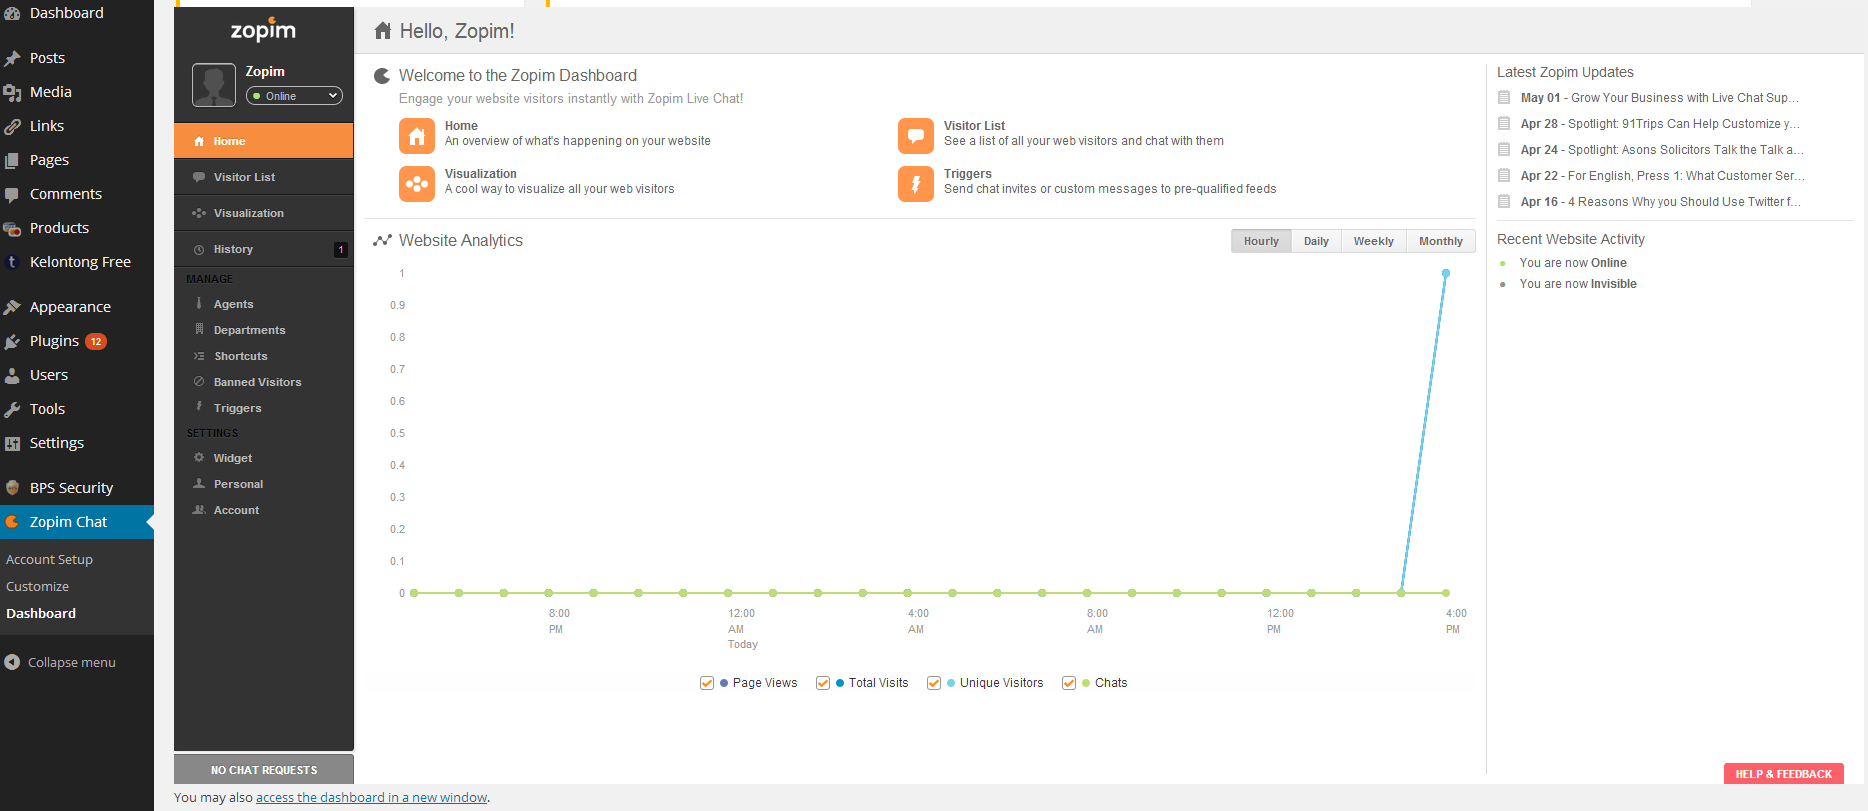
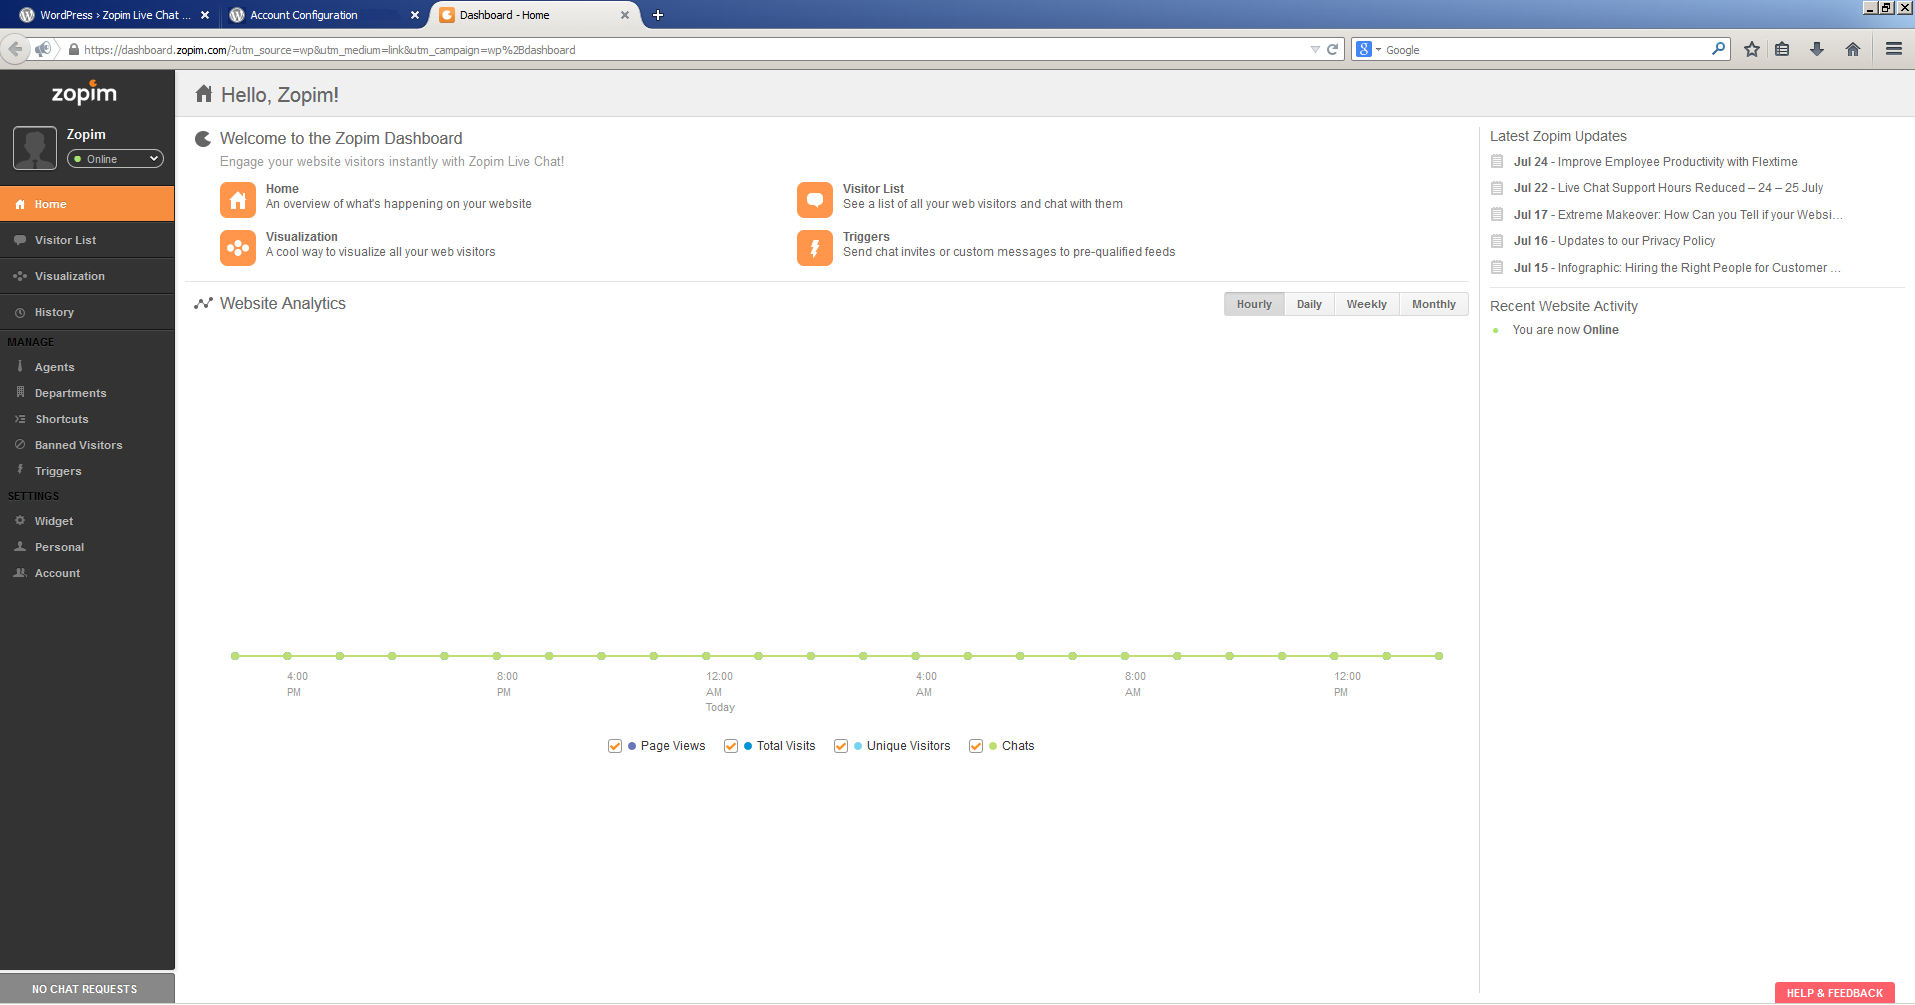
Version 1.3.0 - Remove iframe and submenu pages
git-svn-id: https://plugins.svn.wordpress.org/zopim-live-chat/trunk@954650 b8457f37-d9ea-0310-8a92-e5e31aec5664

diff --git a/zopim.php b/zopim.php
@@ -5,7 +5,7 @@ Plugin Name: Zopim Widget
 Plugin URI: http://www.zopim.com/?iref=wp_plugin
 Description: Zopim is an award winning chat solution that helps website owners to engage their visitors and convert customers into fans!
 Author: Zopim
-Version: 1.2.9
+Version: 1.3.0
 Author URI: http://www.zopim.com/?iref=wp_plugin
 */
 
@@ -17,10 +17,7 @@ define('ZOPIM_SETDISPLAYNAME_URL',    ZOPIM_BASE_URL."plugins/setDisplayName");
 define('ZOPIM_SETEDITOR_URL',    	  ZOPIM_BASE_URL."plugins/setEditor");
 define('ZOPIM_LOGIN_URL',             ZOPIM_BASE_URL."plugins/login");
 define('ZOPIM_SIGNUP_URL',            ZOPIM_BASE_URL."plugins/createTrialAccount");
-define('ZOPIM_DASHBOARD_URL',         "http://dashboard.zopim.com/?utm_source=wp&utm_medium=iframe&utm_campaign=wp%2Bdashboard");
-define('ZOPIM_DASHBOARD_LINK',        "http://dashboard.zopim.com/?utm_source=wp&utm_medium=link&utm_campaign=wp%2Bdashboard");
-define('ZOPIM_THEMEEDITOR_URL',       "http://dashboard.zopim.com/#Widget/appearance");
-define('ZOPIM_THEMEEDITOR_LINK',      "http://dashboard.zopim.com/#Widget/appearance");
+define('ZOPIM_DASHBOARD_LINK',        "https://dashboard.zopim.com/?utm_source=wp&utm_medium=link&utm_campaign=wp%2Bdashboard");
 define('ZOPIM_SMALL_LOGO',            "http://zopim.com/assets/branding/zopim.com/chatman/online.png");
 
 require_once dirname( __FILE__ ) . '/accountconfig.php';
@@ -39,8 +36,8 @@ function zopimme() {
 	get_currentuserinfo();
 
 	$code = get_option('zopimCode');	
-
-	if (($code == "" || $code=="zopim") && (!preg_match("/zopim/", $_GET["page"]))&& (!preg_match("/zopim/", $_SERVER["SERVER_NAME"]))) { return; }
+	
+	if ( ( $code == "" || $code == "zopim" ) && ( isset( $_GET['page'] ) && ! preg_match( "/zopim/", $_GET['page'] ) ) && ( isset( $_GET['page'] ) && ! preg_match( "/zopim/", $_SERVER["SERVER_NAME"] ) ) ) { return; }
 
 	// dont show this more than once
 	if (isset($zopimshown) && $zopimshown == 1) { return; }
@@ -74,7 +71,7 @@ function zopim_get_widget_options() {
 	if ($opts) return stripslashes($opts);
 
 	//$opts = zopim_old_plugin_settings();
-	$zopim_embed_opts .= "\$zopim( function() {";
+	$zopim_embed_opts = "\$zopim( function() {";
 	$zopim_embed_opts .= "\n})";
 	$opts = $zopim_embed_opts;
 
@@ -155,62 +152,12 @@ function zopim_old_plugin_settings() {
 function zopim_create_menu() {
 	//create new top-level menu
 	add_menu_page('Account Configuration', 'Zopim Chat', 'access_zopim', 'zopim_account_config', 'zopim_account_config', ZOPIM_SMALL_LOGO);
-
-	// add_submenu_page('zopim_about', "About", "About", "access_zopim", 'zopim_about', 'zopim_about');
-	add_submenu_page('zopim_account_config', 'Account Configuration', 'Account Setup', 'access_zopim', 'zopim_account_config', 'zopim_account_config');
-	add_submenu_page('zopim_account_config', 'Customize Widget', 'Customize', 'access_zopim', 'zopim_customize_widget', 'zopim_customize_widget');
-	add_submenu_page('zopim_account_config', 'Dashboard', 'Dashboard', 'access_zopim', 'zopim_dashboard', 'zopim_dashboard');
-
 	//call register settings function
 	add_action( 'admin_init', 'register_zopim_plugin_settings' );
 }
 
 function zopim_about() {
 	echo "about";
-}
-
-function zopim_resize_iframe($target) {
-
-?>
-<script>
-(function() {
-	var wpwrap = document.getElementById('wpwrap');
-	var ztarget = document.getElementById('<?php echo $target; ?>');
-	// window.addEventListener('resize', zopim_resize, false);
-	function zopim_resize() {
-		if (wpwrap && wpwrap.clientHeight) {
-			ztarget.height = Math.max(wpwrap.clientHeight - 110, 700);
-		}
-	}
-	zopim_resize();
-})()
-</script>
-
-<?php
-}
-
-function zopim_customize_widget() {
-
-	$params = '';
-	$code = get_option('zopimCode');
-	//if (!empty($code)) $params .= '&account_key=' . urlencode($code);	
-	//$params .= '&url=' . urlencode(get_site_option('siteurl'));
-	echo '<div id="dashboarddiv" style="overflow:hidden;"><iframe id="dashboard-widget" src="'.ZOPIM_THEMEEDITOR_URL.'" height=700 width=110% scrolling="no" style="margin-left:-180px;"></iframe></div>';
-	echo 'You may also <a href="'.ZOPIM_THEMEEDITOR_LINK.$params.'" target="customize" onclick="javascript:document.getElementById(\'dashboarddiv\').innerHTML=\'\'; ">access the theme editor in a new window</a>.';
-	zopim_resize_iframe('dashboard-widget');
-}
-
-function zopim_dashboard() {
-	global $current_user;
-
-	if (isset($current_user)):
-		$useremail = $current_user->data->user_email;
-	endif;
-	// Get Blog's URL
-
-	echo '<div id="dashboarddiv"><iframe id="dashboardiframe" src="'.ZOPIM_DASHBOARD_URL.'" height=700 width=98% scrolling="no"></iframe></div>';
-	echo 'You may also <a href="'.ZOPIM_DASHBOARD_LINK.'" target="dashboard" onclick="javascript:document.getElementById(\'dashboarddiv\').innerHTML=\'\'; ">access the dashboard in a new window</a>.';
-	zopim_resize_iframe('dashboardiframe');
 }
 
 // Register the option settings we will be using

diff --git a/accountconfig.php b/accountconfig.php
@@ -1,5 +1,23 @@
+<style type="text/css">
+	.btn_orange {
+		display: inline-block;
+		width: 150px;
+		padding: 10px 0px;
+		background: #F38313;
+		color: #fff !important;
+		border-radius: 5px;
+		font-weight: 700;
+		font-style: normal;
+		font-size: 14px;
+		border: none;
+		text-shadow: 0px -1px 1px rgba(0, 0, 0, 0.2);
+		text-decoration: none;
+		text-align: center;
+		border: 1px solid #E37A13;
+		box-shadow: 0 1px 1px rgba(0, 0, 0, 0.1), inset 0 1px 0 rgba(255, 255, 255, 0.2);		
+	}
+</style>
 <?php
-
 // Settings page in the admin panel
 function zopim_account_config() {
 	global $usernameToCodeURL, $languagesURL, $current_user;
@@ -118,7 +136,9 @@ function zopim_account_config() {
 <div style="background:#FFFEEB;padding:25px;border:1px solid #eee;">
 <span style="float:right;"><a href="admin.php?page=zopim_account_config&action=deactivate">Deactivate</a></span>
 Currently Activated Account &rarr; <b><?php echo get_option('zopimUsername'); ?></b> <div style="display:inline-block;background:#444;color:#fff;font-size:10px;text-transform:uppercase;padding:3px 8px;-moz-border-radius:5px;-webkit-border-radius:5px;"><?php echo ucwords($accountDetails->package_id); ?></div>
-<br><p><br>You can <a href="admin.php?page=zopim_customize_widget">customize</a> the chat widget, or <a href="admin.php?page=zopim_dashboard">launch the dashboard</a> for advanced features.
+<!--<br><p><br>You can <a href="admin.php?page=zopim_customize_widget">customize</a> the chat widget, or <a href="admin.php?page=zopim_dashboard">launch the dashboard</a> for advanced features.-->
+<br><br>To start using Zopim chat, launch our dashboard for access to all features, including widget customization!
+<br><br><a href="<?php echo ZOPIM_DASHBOARD_LINK."&username=".get_option('zopimUsername'); ?>" style="text-decoration:none;" target="_blank" data-popup="true"><div class="btn_orange">Launch Dashboard</div></a>&nbsp;&nbsp;(This will open up a new browser tab)
 
 
 <form method="post" action="admin.php?page=zopim_account_config">
@@ -145,13 +165,13 @@ Currently Activated Account &rarr; <b><?php echo get_option('zopimUsername'); ?>
 <?php if ($error && $error["auth"]) {
 	echo $error["auth"];
 	} else if ($message == "") { ?>
-Congratulations on successfully installing the Zopim WordPress plugin! Activate an account to start using Zopim Live Chat.<br>
+Congratulations on successfully installing the Zopim WordPress plugin!<br>
 <br>
 <?php } else { echo $message;} ?>
 <div id="existingform">
 	<div class="metabox-holder">
 		<div class="postbox">
-			<h3 class="hndle"><span>Link up to your Zopim account</span></h3>
+			<h3 class="hndle"><span>Link up with your Zopim account</span></h3>
 			<div style="padding:10px;">
 <?php if (isset($error) && isset($error["login"])) { echo $error["login"]; } ?>
 <form method="post" action="admin.php?page=zopim_account_config">
@@ -174,11 +194,11 @@ Congratulations on successfully installing the Zopim WordPress plugin! Activate 
 			</tr>
 	 </table>
 		<br/>
-		The Zopim chat bar will displayed on your blog once your account is linked up.
+		The Zopim chat widget will display on your blog after your account is linked up.
 		<br/>
 		<p class="submit">
 		<input type="submit" class="button-primary" value="<?php _e('Link Up') ?>" />
-		Don't have a zopim account? <a href="<?php echo ZOPIM_SIGNUP_REDIRECT_URL; ?>" target="_blank" data-popup="true">Sign up now</a>.
+		&nbsp;Don't have a zopim account? <a href="<?php echo ZOPIM_SIGNUP_REDIRECT_URL; ?>" target="_blank" data-popup="true">Sign up now</a>.
 		</p>
 
 </form>
